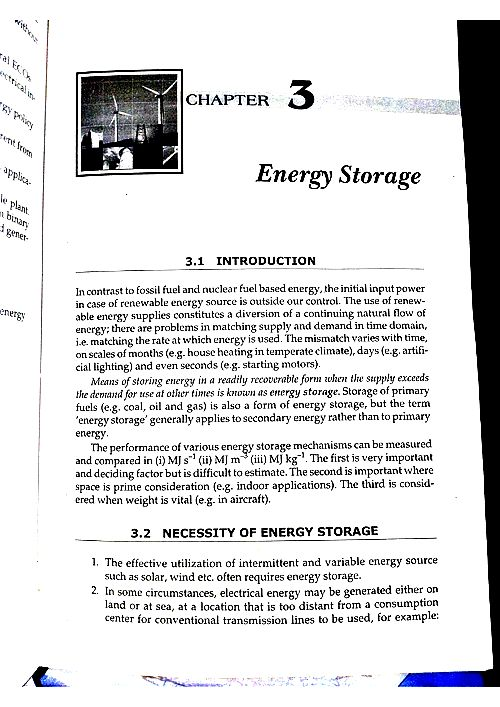
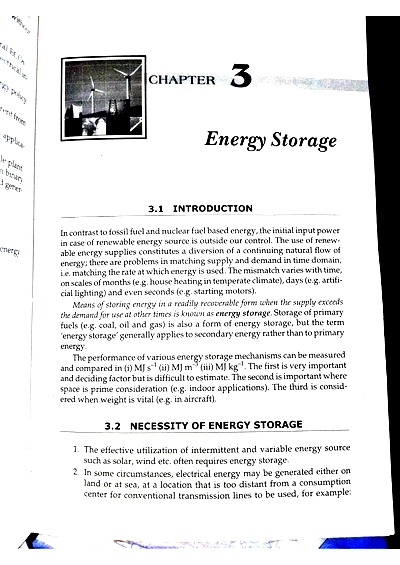
changed the size for the book

diff --git a/pdf-gen.py b/pdf-gen.py
@@ -34,14 +34,14 @@ def enhance_image(img, new_width=400):
     img = img.resize((new_width, new_height), Image.LANCZOS)
 
     # Enhance
-    img = ImageEnhance.Sharpness(img).enhance(1.5)
+    img = ImageEnhance.Sharpness(img).enhance(1.2)
     img = ImageEnhance.Brightness(img).enhance(1.2)
     img = ImageEnhance.Contrast(img).enhance(1.3)
 
     return img
 
 if __name__ == '__main__':
-    pdf_path = "../books/Lecture note on EEE 402.pdf"
+    pdf_path = "../books/Chapter 3_Energy Story_EEE 403.1.pdf"
     pdf_name = os.path.splitext(os.path.basename(pdf_path))[0].replace(" ", "_")  # Make it filename-safe
     image_output_dir = f"pages/{pdf_name}"
 
